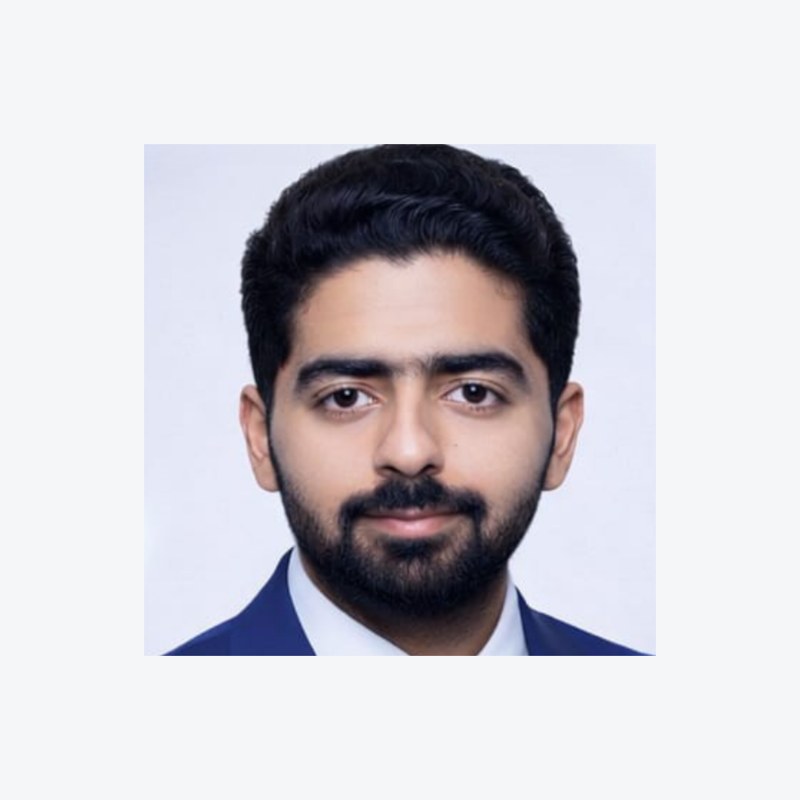
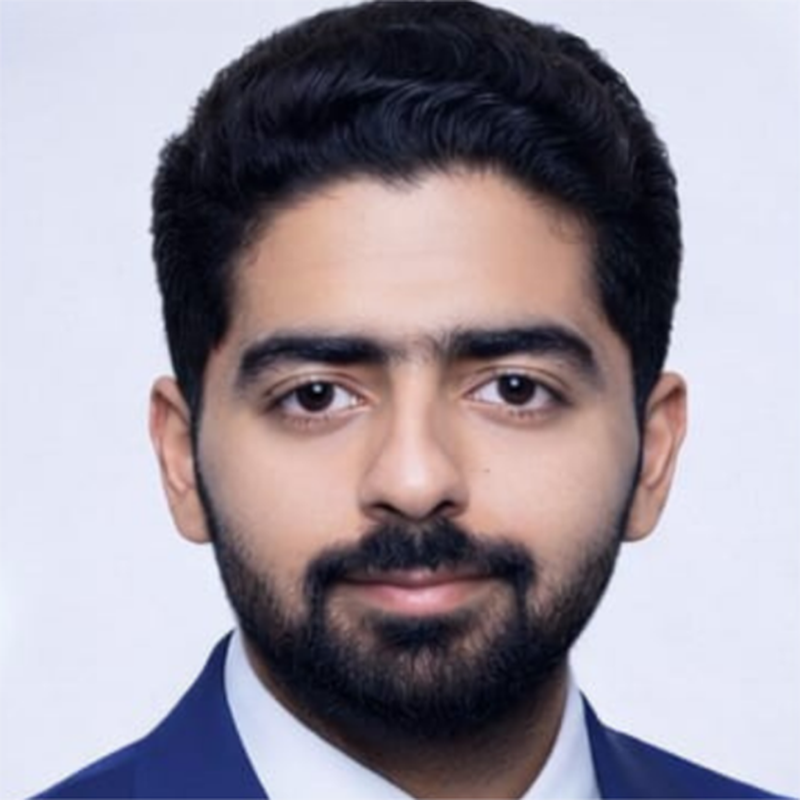
Update model caption text, leadership intro, and uniform director photos
- Replace model caption: orders flow from Manufacturer to Buyer, no inventory costs
- Update leadership intro with new seasoned professionals copy
- Crop Vinay and Rahul photos to remove internal whitespace borders
- Use square aspect-ratio containers for uniform photo display

diff --git a/index.html b/index.html
@@ -7,7 +7,7 @@
   <meta name="description"
     content="NexusX — Structured global representation for manufacturers. Expand into international markets through Supplier Partnering without export complexity.">
   <title>NexusX — Global Growth Without Export Complexity</title>
-  <link rel="stylesheet" href="style.css?v=108">
+  <link rel="stylesheet" href="style.css?v=110">
   <link rel="icon" type="image/png" href="assets/images/logo.png">
 </head>
 
@@ -188,8 +188,7 @@
       </div>
 
       <div class="model-caption anim">
-        <p>NexusX represents. NexusX doesn't trade.</p>
-        <p>Orders flow directly between buyer and manufacturer.</p>
+        <p>Orders flow directly from Manufacturer to Buyer. NexusX does not incur or add inventory i.e. stock costs.</p>
       </div>
 
       <!-- Model Features — Editorial numbered list -->
@@ -447,9 +446,9 @@
           <h2 class="t-headline">Global operators.<br>Proven experience.</h2>
         </div>
         <div class="team-header-right anim-right">
-          <p class="t-body team-intro">NexusX is led by professionals with decades of hands-on
-            international business experience —
-            not advisors, operators who have built global market presence across continents.</p>
+          <p class="t-body team-intro">NexusX is led by seasoned professionals who have spent decades building
+            businesses across international markets. We don't just advise — we operate, execute, and deliver global
+            growth.</p>
 
           <div class="team-credentials-top">
             <div class="team-cred-top-item">
@@ -467,7 +466,7 @@
       <div class="team-profiles">
         <!-- Umakant -->
         <div class="team-card anim anim-d1">
-          <img src="assets/images/umakant.png?v=2" alt="Umakant Potdukhe" class="team-photo photo-umakant">
+          <img src="assets/images/umakant.png?v=3" alt="Umakant Potdukhe" class="team-photo photo-umakant">
           <div class="team-info">
             <h3 class="team-name">Umakant Potdukhe</h3>
             <p class="team-title">Director</p>
@@ -479,7 +478,7 @@
         </div>
         <!-- Vinay -->
         <div class="team-card anim anim-d2">
-          <img src="assets/images/vinay.png?v=2" alt="Vinay Jagwani" class="team-photo photo-vinay">
+          <img src="assets/images/vinay.png?v=3" alt="Vinay Jagwani" class="team-photo photo-vinay">
           <div class="team-info">
             <h3 class="team-name">Vinay Jagwani</h3>
             <p class="team-title">Director</p>
@@ -491,7 +490,7 @@
         </div>
         <!-- Rahul -->
         <div class="team-card anim anim-d3">
-          <img src="assets/images/rahul.png?v=2" alt="Rahul Jagwani" class="team-photo photo-rahul">
+          <img src="assets/images/rahul.png?v=3" alt="Rahul Jagwani" class="team-photo photo-rahul">
           <div class="team-info">
             <h3 class="team-name">Rahul Jagwani</h3>
             <p class="team-title">Director</p>

diff --git a/style.css b/style.css
@@ -1309,19 +1309,16 @@ button {
   box-shadow: var(--shadow-lg);
 }
 
-/* Reduced portrait dominance: emphasis on experience */
+/* Uniform square photos — all source images are 800×800 */
 .team-photo {
   width: 100%;
-  height: 280px;
+  aspect-ratio: 1;
   object-fit: cover;
-  object-position: center 15%;
+  object-position: center 20%;
+  background: var(--light-gray, #f5f5f5);
   filter: grayscale(0.2) contrast(1.05);
   transition: filter 0.4s var(--ease);
-}
-
-.team-photo.photo-vinay,
-.team-photo.photo-rahul {
-  object-position: center 15%;
+  display: block;
 }
 
 .team-card:hover .team-photo {
